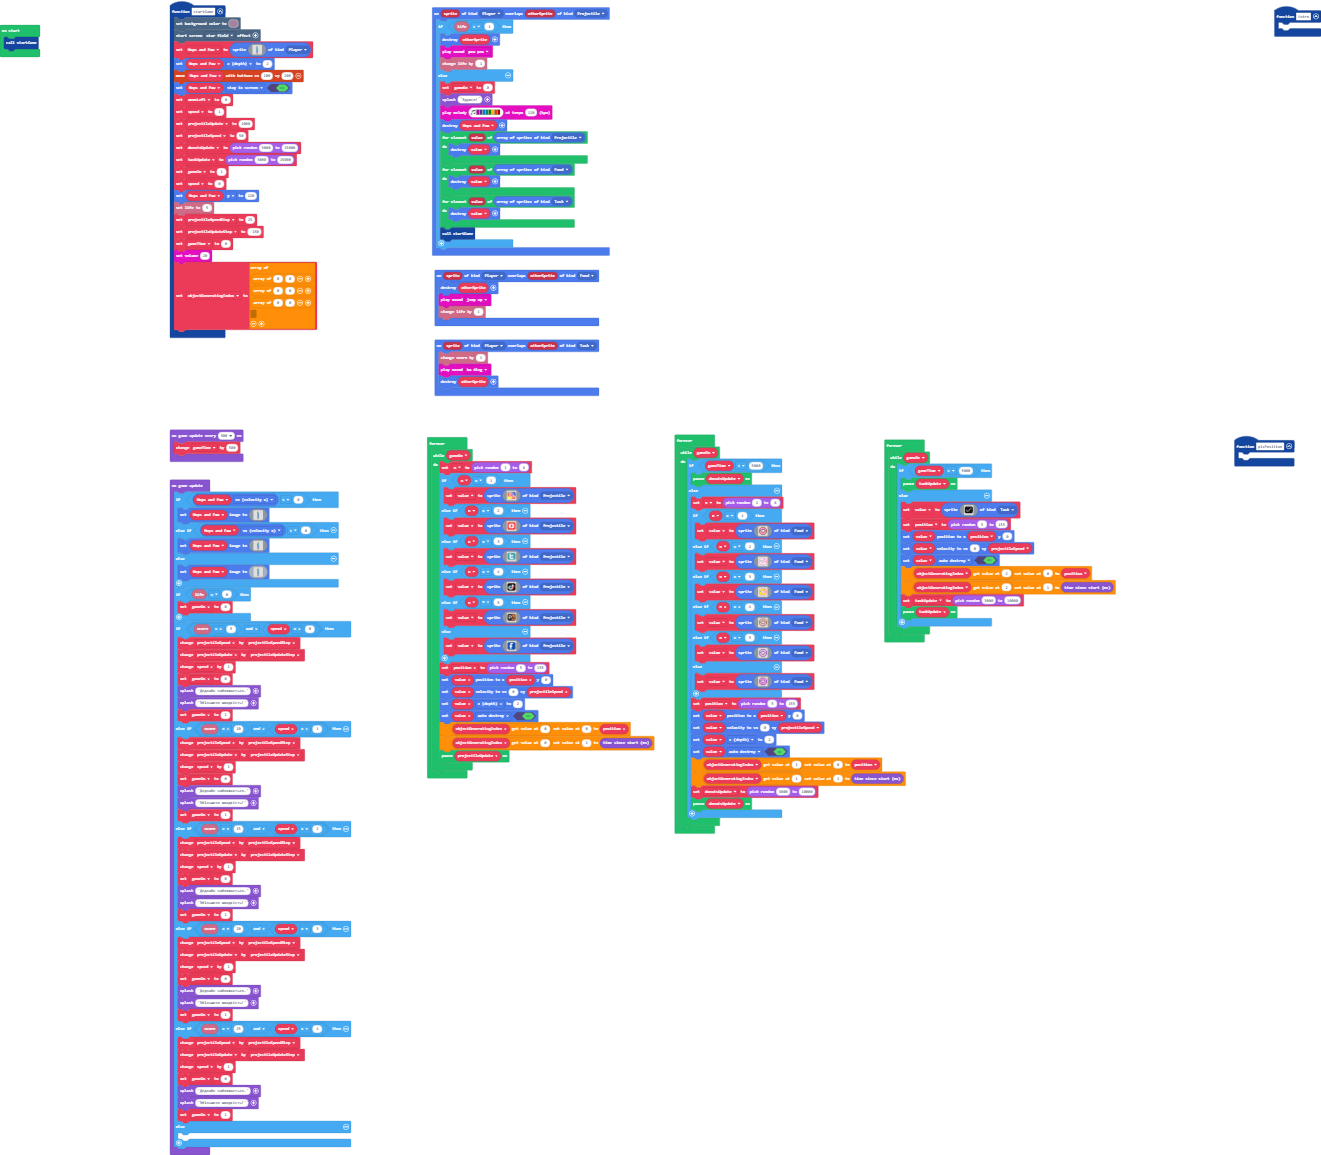
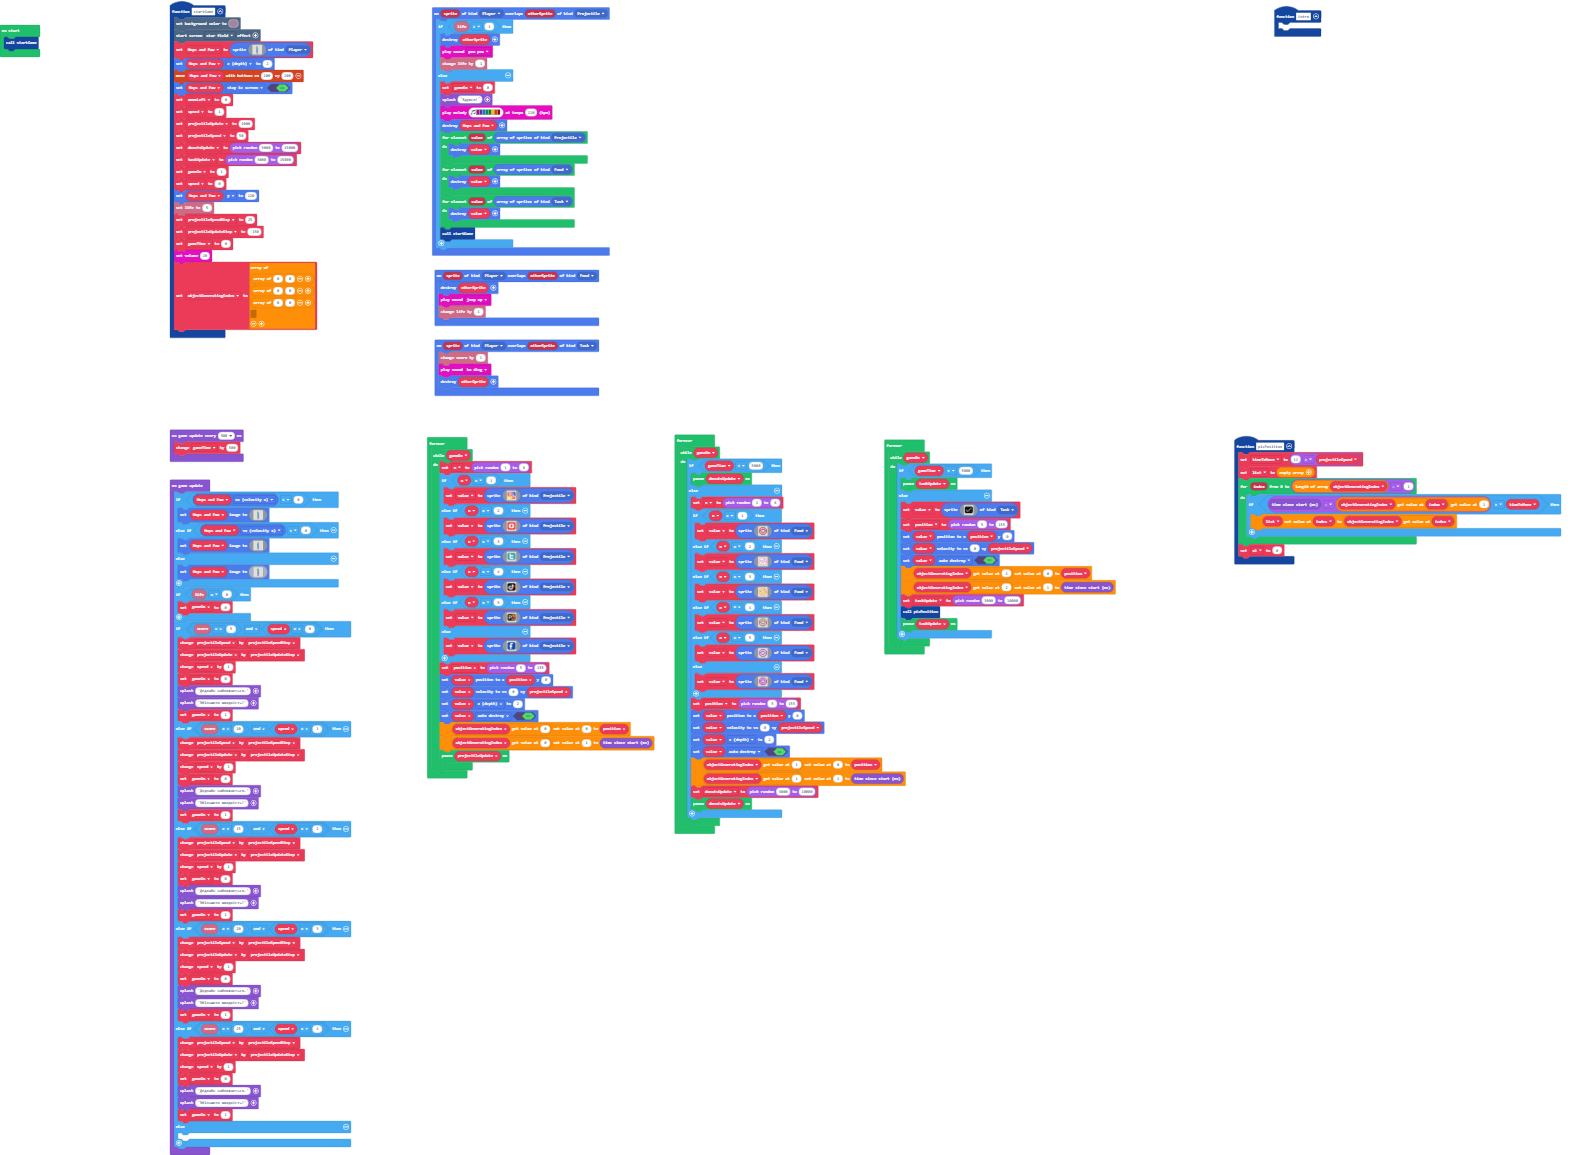
Update main.blocks, main.ts

diff --git a/main.ts b/main.ts
@@ -62,7 +62,14 @@ sprites.onOverlap(SpriteKind.Player, SpriteKind.Task, function (sprite, otherSpr
     otherSprite.destroy()
 })
 function picPosition () {
-	
+    timeToMove = 11 / projectileSpeed
+    list = []
+    for (let index = 0; index <= objectGeneratingIndex.length - 1; index++) {
+        if (game.runtime() - objectGeneratingIndex[index][1] > timeToMove) {
+            list[index] = objectGeneratingIndex[index]
+        }
+    }
+    x1 = 0
 }
 sprites.onOverlap(SpriteKind.Player, SpriteKind.Food, function (sprite, otherSprite) {
     otherSprite.destroy()
@@ -72,6 +79,9 @@ sprites.onOverlap(SpriteKind.Player, SpriteKind.Food, function (sprite, otherSpr
 let position = 0
 let value: Sprite = null
 let n = 0
+let x1 = 0
+let list: number[][] = []
+let timeToMove = 0
 let objectGeneratingIndex: number[][] = []
 let gameTime = 0
 let projectileUpdateStep = 0
@@ -210,6 +220,7 @@ forever(function () {
             objectGeneratingIndex[2][0] = position
             objectGeneratingIndex[2][1] = game.runtime()
             taskUpdate = randint(3000, 10000)
+            picPosition()
             pause(taskUpdate)
         }
     }
